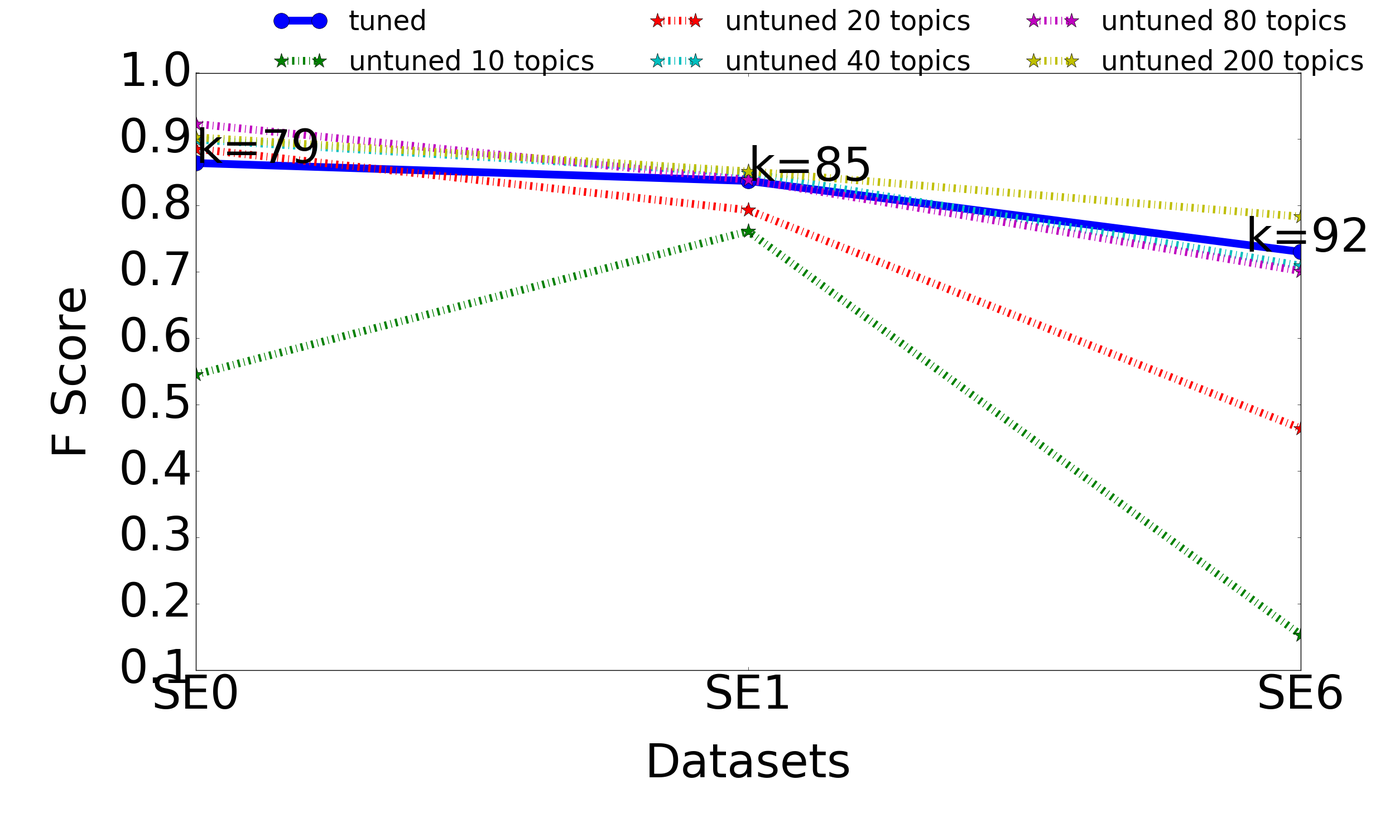
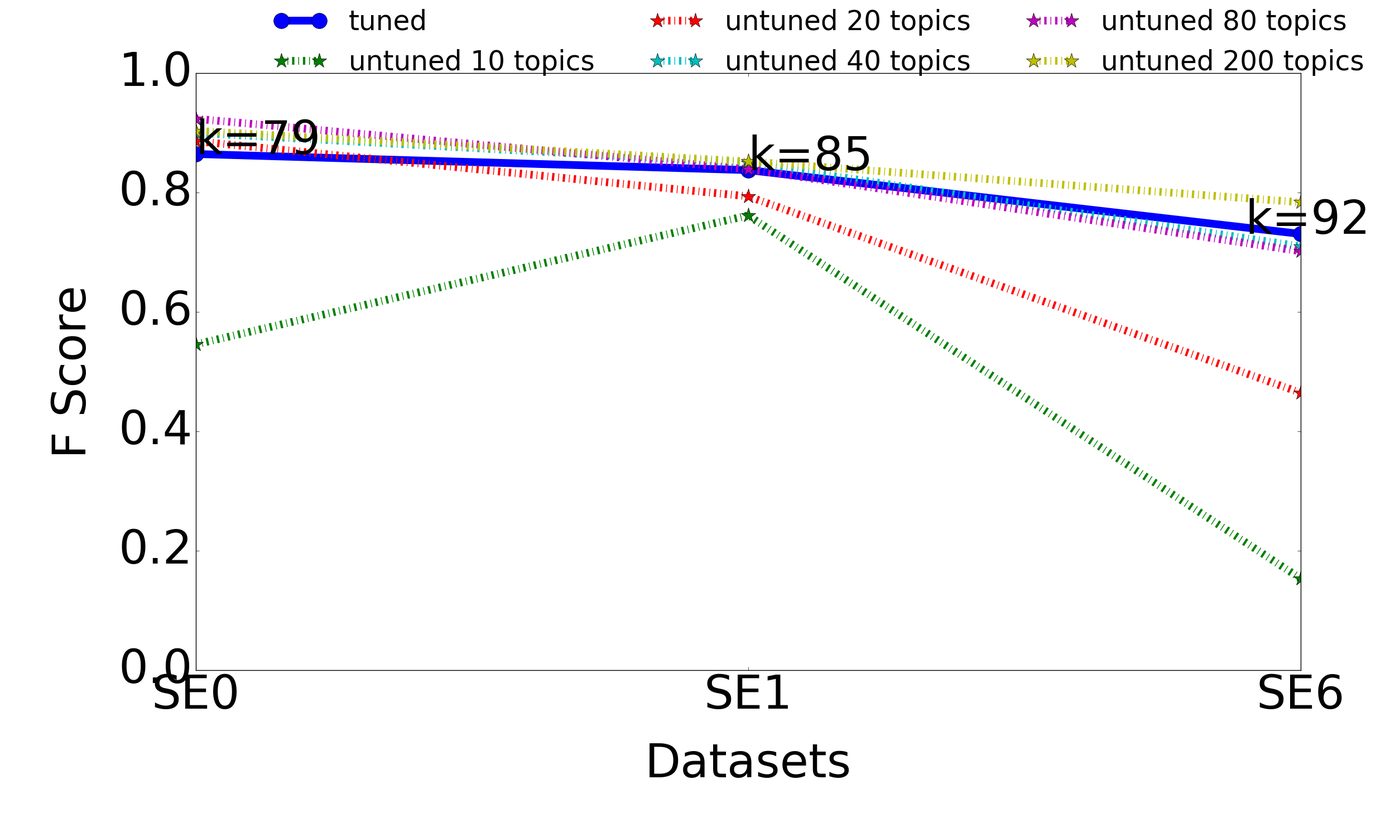
save

diff --git a/src/2016-09-05/draw.py b/src/2016-09-05/draw.py
@@ -15,7 +15,7 @@ import matplotlib.colors as colors
 
 if __name__ == '__main__':
 
-    fileB = ['SE0' ,'SE1','SE6']
+    fileB = ['SE0' ,'SE6']
     '''F_final1={}
     current_dic1={}
     para_dict1={}
@@ -35,36 +35,31 @@ if __name__ == '__main__':
                 #time1 = dict(time1.items() + time.items())
     print(F_final1)'''
     topics=[10,20,40,80,200]
-    topics_tuned = {'SE6': [0.72972972972972971, 0.64516129032258063, 0.74884437596301989, 0.71988388969521033, 0.72834067547723946,
-                0.73235294117647054, 0.63262764632627633, 0.61032863849765251, 0.75384615384615383, 0.73590504451038585,
-                0.74809160305343514, 0.76470588235294124, 0.66491458607095921, 0.65703022339027595, 0.73025335320417284,
-                0.57297297297297312, 0.73076923076923084, 0.69262865090403336, 0.73529411764705888, 0.7332339791356185,
-                0.63546798029556639, 0.75308641975308643, 0.73076923076923084, 0.73798449612403105,
-                0.61737089201877937],'SE8': [0.075053995680345556, 0.075400054244643341, 0.086403215003348965, 0.076533483398987051,
-                0.091476091476091481, 0.091994382022471899, 0.087356321839080459, 0.068565910188314816,
-                0.086819754639823846, 0.060174832282984349, 0.07518796992481204, 0.072437708707937323,
-                0.068600252206809584, 0.093640810621942697, 0.086130462317922735, 0.065991044072590141,
-                0.09253945480631276, 0.069773115393998525, 0.087860496311200548, 0.080344332855093251,
-                0.080962158990906419, 0.088070982582977325, 0.075555555555555556, 0.095614665708123645,
-                0.064473970812459161],'SE3': [0.28073339344755033, 0.27932618683001531, 0.25964517037454238, 0.20441397043068354, 0.24214559386973181,
-                0.24915121441629667, 0.21047937569676697, 0.22713864306784659, 0.2780487804878049, 0.27744270205066346,
-                0.22196638268478008, 0.23403217942467092, 0.26239907727797002, 0.25255239118753359, 0.2532485485208737,
-                0.24524863316844572, 0.20922140060896041, 0.28114630467571639, 0.27066356228172295, 0.23884514435695539,
-                0.29409846755787417, 0.23057644110275685, 0.24443293630243398, 0.22089825847846012,
-                0.22730664013926882],'SE1': [0.83763277693474947, 0.82963520120346002, 0.82383419689119175, 0.8297470743676858, 0.8394408764639214,
-                0.84459717449408167, 0.82070240295748609, 0.82261640798226165, 0.84452975047984646, 0.83929931454683926,
-                0.83027351067815658, 0.84118541033434646, 0.80738595220854459, 0.83851402577710388, 0.83720930232558144,
-                0.80916030534351147, 0.84907120743034048, 0.82781954887218046, 0.83434190620272319, 0.84024114544084394,
-                0.83712121212121215, 0.84502698535080956, 0.82348596750369274, 0.84461538461538455,
-                0.82418812989921608],'SE0': [0.87346938775510208, 0.86652977412731003, 0.76338514680483582, 0.76842105263157889, 0.77217391304347827,
-                0.86938775510204069, 0.87221095334685594, 0.86409736308316432, 0.78928571428571437, 0.74036850921273045,
-                0.86868686868686884, 0.87346938775510197, 0.78014184397163122, 0.76223776223776218, 0.88391038696537683,
-                0.87755102040816335, 0.77385159010600724, 0.77680140597539538, 0.76573426573426573, 0.8688524590163933,
-                0.68404907975460127, 0.87603305785123964, 0.74581939799331098, 0.87242798353909468,
-                0.86761710794297353]}
-
-    topics_untuned={'SE6': {40: [0.6820566631689402, 0.70549450549450543, 0.67432150313152406, 0.73721759809750309, 0.7302325581395348, 0.69555796316359686, 0.70281995661605201, 0.69621621621621621, 0.68220338983050854, 0.76052948255114317, 0.72389791183294661, 0.71266968325791857, 0.70472008781558726, 0.70021881838074396, 0.68067226890756305, 0.71829405162738491, 0.64822134387351782, 0.71557562076749437, 0.71140939597315422, 0.71927846674182627, 0.70939226519337018, 0.71493212669683248, 0.72789896670493692, 0.67785939139559281, 0.7235023041474653], 80: [0.68640350877192979, 0.72055427251732118, 0.69222343921139096, 0.73278879813302211, 0.69680264608599785, 0.71662763466042156, 0.71331828442437928, 0.7121387283236994, 0.67785234899328861, 0.69706840390879476, 0.68729281767955797, 0.68722466960352424, 0.7406513872135102, 0.72517321016166281, 0.70132743362831862, 0.71526195899772216, 0.7057471264367815, 0.6860215053763441, 0.70191226096737902, 0.70996640537514, 0.69273743016759781, 0.69230769230769218, 0.69956140350877194, 0.67089947089947077, 0.71493212669683248], 10: [0.14631522323830018, 0.20015396458814474, 0.15320796460176989, 0.15145736856442388, 0.20491803278688525, 0.14994425863991082, 0.14587332053742802, 0.13637341363734135, 0.21167576648467032, 0.15484219045049905, 0.15697346132128739, 0.20963968179691159, 0.15342615342615343, 0.16020821283979178, 0.15039649986327591, 0.14745529573590097, 0.15066630405221651, 0.16492949110974864, 0.15243243243243246, 0.14830508474576271, 0.15172786177105835, 0.2077125328659071, 0.1586851799376594, 0.20342771982116242, 0.14935949850095392], 20: [0.49352890422778262, 0.45054151624548738, 0.46042120551924481, 0.45207439198855509, 0.46412213740458019, 0.42010309278350516, 0.41585445094217022, 0.48675496688741715, 0.48784440842787685, 0.47887323943661969, 0.46334310850439875, 0.42289562289562288, 0.45199409158050219, 0.48513302034428796, 0.49238578680203049, 0.43258042436687194, 0.44922164566345441, 0.49306122448979595, 0.48995983935742965, 0.46431254695717505, 0.45434938892882815, 0.4756756756756757, 0.4846029173419773, 0.46539027982326953, 0.46785437645236255], 200: [0.79276773296244796, 0.77656675749318804, 0.78295605858854855, 0.74634146341463414, 0.77154582763337887, 0.783448275862069, 0.78335724533715934, 0.78869448183041724, 0.8032128514056226, 0.76227390180878551, 0.76000000000000001, 0.7857142857142857, 0.78639455782312928, 0.78779069767441867, 0.75634517766497467, 0.77823129251700685, 0.78877005347593576, 0.78087649402390447, 0.77835051546391754, 0.78821879382889193, 0.74250000000000005, 0.78848920863309346, 0.77353689567430017, 0.80218281036834926, 0.79551820728291323]}, 'SE8': {40: [0.1583949313621964, 0.1659988551803091, 0.18598559266535691, 0.18181818181818185, 0.18904109589041099, 0.19665271966527195, 0.15153035624686403, 0.18656229615133724, 0.19021364576154376, 0.14984709480122327, 0.18950238582140425, 0.14878542510121459, 0.1812538795779019, 0.15803814713896458, 0.17974683544303796, 0.13209219858156027, 0.1819322459222083, 0.16066481994459839, 0.15832875206157229, 0.2391713747645951, 0.17696969696969694, 0.16410256410256407, 0.17794486215538846, 0.18320610687022904, 0.17729204614450514], 80: [0.14917127071823202, 0.13107445385644226, 0.15524079320113315, 0.15666094911377931, 0.12626931567328917, 0.11769480519480519, 0.14293221229637412, 0.14764397905759161, 0.1628588166373755, 0.13457076566125289, 0.14670184696569921, 0.1359773371104816, 0.16806722689075629, 0.11812627291242363, 0.13434247871333962, 0.16775728732897083, 0.12489451476793248, 0.1242603550295858, 0.17424727738629084, 0.13169114163903364, 0.13580246913580249, 0.14421052631578948, 0.12859712230215828, 0.14278429372768994, 0.14570230607966458], 10: [0.09903121636167922, 0.076078221269756233, 0.07297367735209799, 0.067651262505955212, 0.068424803991446889, 0.079190751445086707, 0.054779206260480717, 0.077368421052631572, 0.098721590909090912, 0.097544338335607092, 0.060501296456352625, 0.09293193717277487, 0.10235026535253981, 0.089680589680589673, 0.10087719298245613, 0.094545454545454544, 0.090346534653465344, 0.098715348208248815, 0.10235934664246824, 0.080215504340017965, 0.091900826446280989, 0.094164456233421748, 0.050203527815468107, 0.095759233926128604, 0.097375690607734808], 20: [0.11910013233348039, 0.092686002522068101, 0.12303422756706753, 0.080521689821377931, 0.115736885928393, 0.11878574571051474, 0.1115506329113924, 0.086820737039350407, 0.10261854210898796, 0.11229508196721313, 0.11471321695760597, 0.077783995523223293, 0.11340659340659341, 0.11729706757331065, 0.10454217736121124, 0.1154964686331533, 0.095036958817317857, 0.1047197640117994, 0.12363636363636363, 0.11003487020534677, 0.10440835266821345, 0.10779816513761467, 0.11566858080393766, 0.071481390189795421, 0.12197309417040361], 200: [0.16203703703703706, 0.14285714285714285, 0.17368762151652622, 0.15393073117097306, 0.17379117028731608, 0.14601542416452443, 0.1534025374855825, 0.16626213592233011, 0.16965944272445818, 0.17127799736495392, 0.16118047673098754, 0.1806981519507187, 0.15138121546961325, 0.1492063492063492, 0.16187050359712229, 0.22731439046746105, 0.16397366846199882, 0.16579710144927534, 0.17510259917920654, 0.14411612234318297, 0.1488569909622541, 0.16431924882629109, 0.16688741721854305, 0.17731421121251631, 0.15341229554427521]}, 'SE3': {40: [0.26710275279367679, 0.29519379844961235, 0.29449345908122909, 0.36909527622097682, 0.2535649468498834, 0.31049041896719715, 0.3002832861189802, 0.31761112996267393, 0.25742574257425743, 0.30059617194854094, 0.27452085682074406, 0.32551817872918792, 0.24841571609632443, 0.33738384560400286, 0.33170391061452509, 0.28689492325855964, 0.33568406205923834, 0.25622022233986236, 0.30695596681557119, 0.31603459747172324, 0.24855925833124526, 0.29663608562691129, 0.30520304568527917, 0.36202920830130669, 0.27908326080649842], 80: [0.38968253968253963, 0.42549450549450546, 0.4570886676149834, 0.48800408371618181, 0.50454302512025651, 0.48678861788617883, 0.44454843238184377, 0.47548291233283801, 0.43154630039875935, 0.42992338891392523, 0.4572769953051643, 0.46444121915820025, 0.49282786885245905, 0.39583333333333331, 0.50131095962244354, 0.48740359897172231, 0.42001710863986319, 0.50562399571505079, 0.4613180515759312, 0.39065646395489328, 0.47409579667644186, 0.40064882400648827, 0.45895343254920784, 0.46531791907514447, 0.44788732394366193], 10: [0.13289219740832645, 0.13648217907852797, 0.16769856713249603, 0.12251071338542978, 0.17375499818247911, 0.12345679012345678, 0.1750317086428701, 0.16957153231663033, 0.15136320902538392, 0.17396041401852189, 0.12728468113083496, 0.12154420921544209, 0.19707565162110616, 0.18286592393392243, 0.12080536912751678, 0.13456352022711143, 0.19020753576465846, 0.12971382722653116, 0.13098912897597642, 0.15903775476110923, 0.14060216311020168, 0.12000998003992015, 0.13893805309734511, 0.18467583497053042, 0.14306741242272591], 20: [0.28824427480916032, 0.24770173646578139, 0.24452191235059764, 0.30504148053605612, 0.25507246376811593, 0.23122482823975363, 0.25328862522568996, 0.3061291379875451, 0.25873015873015875, 0.24099999999999999, 0.24601366742596814, 0.21911111111111112, 0.27462014631401238, 0.31679129843643777, 0.2591380250954719, 0.24070021881838072, 0.28537170263788963, 0.25051440329218111, 0.2280130293159609, 0.29320024953212726, 0.26951931091969988, 0.25976825653462676, 0.27370812038614423, 0.27393310265282583, 0.25444096133751309], 200: [0.46631119728550652, 0.48654139156932447, 0.52613827993254636, 0.51707317073170733, 0.49947643979057588, 0.46005774783445624, 0.5034519383961763, 0.45739046701974012, 0.52159650082012021, 0.51769911504424782, 0.49766233766233764, 0.50236966824644547, 0.50556438791732905, 0.50638297872340432, 0.55477031802120136, 0.53137365743357823, 0.51282051282051277, 0.45330830595964333, 0.55772646536412074, 0.48093543467208949, 0.48275862068965519, 0.46358876725368864, 0.55319148936170215, 0.530093870789619, 0.44434180138568136]}, 'SE1': {40: [0.83875794986906105, 0.844106463878327, 0.86416861826697899, 0.83599851245816281, 0.85013415101571488, 0.83958020989505244, 0.86411149825783973, 0.85059228123805874, 0.82648908620051798, 0.86213592233009695, 0.86013173188686554, 0.82062454611474211, 0.84084084084084076, 0.87932421560740137, 0.84869169510807718, 0.84012066365007532, 0.85009487666034156, 0.84885496183206099, 0.86564825695260472, 0.83960843373493976, 0.84318181818181814, 0.84940907357987039, 0.84551620195930666, 0.85593220338983056, 0.86370716510903423], 80: [0.84056857472147528, 0.7985714285714286, 0.84937888198757749, 0.84302546560243263, 0.84371417653802072, 0.83993902439024393, 0.82195845697329384, 0.83403281190385348, 0.84726000777302757, 0.82832777159807203, 0.84482094724682322, 0.83870967741935487, 0.82725241995532395, 0.83579825559347742, 0.83547169811320754, 0.849441663457836, 0.83978739559605153, 0.85103072734344609, 0.84724894190073097, 0.8252427184466018, 0.85147744945567649, 0.83756152972358955, 0.8295412159641925, 0.83472327520849121, 0.8308157099697886], 10: [0.7677044132740336, 0.74499507712504098, 0.75775978407557354, 0.75871313672922258, 0.75717662951705511, 0.74366567949983542, 0.76241973639743155, 0.7487553932957185, 0.77178423236514526, 0.77033985581874365, 0.7612244897959185, 0.76322930800542732, 0.73018928456849552, 0.77316735822959892, 0.76190476190476186, 0.77493074792243777, 0.74424720578566739, 0.76494565217391308, 0.75275275275275277, 0.73974401050213334, 0.79472558802565929, 0.73026103770544637, 0.77129120879120883, 0.7284427284427285, 0.7694938440492477], 20: [0.78556412053258584, 0.775425199583478, 0.82983508245877058, 0.78704681450193592, 0.79036827195467418, 0.80874316939890711, 0.79294532627865955, 0.80404186214363049, 0.77839335180055402, 0.81429624170965353, 0.79913451135953839, 0.78751753155680215, 0.79784560143626571, 0.80759401241328943, 0.76416694944010866, 0.82620022329735754, 0.79194630872483229, 0.78700105969622036, 0.80215053763440858, 0.7931648273406906, 0.78538812785388146, 0.80739934711643091, 0.79123984457788765, 0.80085959885386815, 0.81942899517982937], 200: [0.8548895899053629, 0.84153846153846146, 0.84206471494607082, 0.860759493670886, 0.85296442687747043, 0.84523350057892699, 0.85579196217494091, 0.85154719937328638, 0.846839860411012, 0.84729835552075183, 0.86473429951690817, 0.84081319524357501, 0.84841453982985315, 0.85217391304347834, 0.84701348747591521, 0.85916601101494894, 0.85714285714285721, 0.84410058027079304, 0.85635359116022103, 0.8475232198142415, 0.85522151898734178, 0.84109272797229706, 0.83944954128440363, 0.86112216474333458, 0.85930047694753575]}, 'SE0': {40: [0.89142857142857146, 0.90466531440162268, 0.88073394495412838, 0.89230769230769225, 0.90766208251473479, 0.89788053949903668, 0.90196078431372551, 0.90909090909090906, 0.89980353634577603, 0.89393939393939392, 0.89940828402366857, 0.87615526802218113, 0.88931297709923651, 0.90204081632653066, 0.90448343079922022, 0.87476635514018686, 0.91242362525458243, 0.89443378119001915, 0.89961389961389959, 0.89312977099236646, 0.89883268482490275, 0.91015625, 0.90058479532163749, 0.90476190476190477, 0.88636363636363624], 80: [0.92024539877300615, 0.92050209205020916, 0.93333333333333335, 0.9243353783231083, 0.91944990176817298, 0.92338709677419351, 0.91599999999999993, 0.9218106995884775, 0.9218106995884775, 0.92842535787321068, 0.93762575452716301, 0.92215568862275454, 0.9173553719008265, 0.92622950819672134, 0.92307692307692313, 0.92916666666666659, 0.91097308488612827, 0.93041749502982107, 0.92148760330578516, 0.92929292929292928, 0.91732283464566933, 0.92525252525252522, 0.93167701863354035, 0.92813141683778233, 0.91322314049586784], 10: [0.54152445961319684, 0.57402597402597411, 0.53917050691244239, 0.5512367491166078, 0.52048726467331119, 0.52727272727272723, 0.56029232643118143, 0.55882352941176472, 0.54441913439635536, 0.54524089306698009, 0.55339805825242716, 0.52631578947368418, 0.55421686746987953, 0.54651162790697672, 0.54524089306698009, 0.5423728813559322, 0.54375729288214703, 0.52559726962457343, 0.55555555555555558, 0.54396248534583824, 0.56000000000000005, 0.5245535714285714, 0.55474452554744524, 0.54800936768149877, 0.54004576659038894], 20: [0.84135472370766495, 0.85607476635514013, 0.90180360721442887, 0.90135396518375244, 0.87850467289719625, 0.8529945553539019, 0.91338582677165348, 0.83571428571428563, 0.88345864661654139, 0.89105058365758749, 0.84999999999999998, 0.85662431941923778, 0.90272373540856032, 0.89959839357429716, 0.89575289575289574, 0.89615384615384619, 0.88555347091932468, 0.88122605363984674, 0.89534883720930236, 0.88380952380952371, 0.89305816135084426, 0.87020109689213898, 0.89243027888446214, 0.89628180039138938, 0.87360594795539026], 200: [0.89277899343544864, 0.92372881355932202, 0.90280777537796975, 0.9098712446351932, 0.90831556503198285, 0.90638297872340423, 0.89699570815450647, 0.90196078431372551, 0.90752688172042995, 0.89565217391304353, 0.90712742980561567, 0.90086206896551724, 0.89427312775330403, 0.9243697478991596, 0.89277899343544864, 0.90517241379310343, 0.91452991452991439, 0.88198757763975155, 0.88986784140969166, 0.89177489177489178, 0.91341991341991347, 0.88986784140969166, 0.92177589852008457, 0.90598290598290598, 0.89655172413793105]}}
-    topic=[79, 85, 92]
+    #topics
+    #topic=[79, 85, 92]
+    # words
+    topic = [79, 61]
+    words_tuned = {
+        'SE6': [0.46834345186470078, 0.46572934973637958, 0.46275197195442597, 0.4773735581188997, 0.47845206684256814,
+                0.46099912357581069, 0.46596858638743455, 0.48141592920353982, 0.46666666666666673, 0.4776119402985074,
+                0.48263888888888884, 0.46789797713280568, 0.46678635547576303, 0.46986899563318779, 0.46515679442508706,
+                0.47028423772609829, 0.47419072615923014, 0.46354166666666663, 0.47729296527159393, 0.46732318710832582,
+                0.48105726872246701, 0.46495119787045258, 0.46437994722955134, 0.47326906222611748,
+                0.46885813148788924],
+        'SE8': [0.054567502021018593, 0.072573839662447265, 0.07243572021011889, 0.073374096720400225,
+                0.073492286115007022, 0.04949421965317919, 0.072576177285318552, 0.074136478517270427,
+                0.073280721533258181, 0.07239057239057238, 0.055250863294738981, 0.073991655076495119,
+                0.073378839590443695, 0.072747313309451639, 0.071428571428571438, 0.055938386704499389,
+                0.048673376029277217, 0.07178631051752922, 0.073280721533258181, 0.072077028885832187,
+                0.070973107845855282, 0.073537604456824515, 0.048540145985401455, 0.055969398026978055,
+                0.07277856135401975],
+        'SE0': [0.41618497109826591, 0.87398373983739841, 0.90322580645161299, 0.41919686581782561, 0.90364025695931482,
+                0.42084942084942079, 0.42189054726368158, 0.41658440276406711, 0.42885375494071148, 0.42292490118577075,
+                0.90638297872340423, 0.91331923890063438, 0.41494591937069808, 0.41425818882466281, 0.41650294695481338,
+                0.41325536062378165, 0.9098712446351932, 0.42430278884462153, 0.41722488038277505, 0.8693877551020408,
+                0.42125984251968496, 0.42084562438544737, 0.42207163601161657, 0.42084562438544737,
+                0.90128755364806856]}
+    words_untuned={'SE6': {40: [0.42146341463414638, 0.46803377563329313, 0.51094890510948898, 0.24522845575477153, 0.41487279843444225, 0.50368188512518408, 0.41739130434782606, 0.50305250305250304, 0.41385948026948993, 0.48837209302325585, 0.41910331384015598, 0.42465753424657532, 0.42348411934552455, 0.49557522123893805, 0.49493487698986971, 0.48862275449101805, 0.48484848484848481, 0.49275362318840582, 0.48134777376654642, 0.50147492625368728, 0.48721071863581, 0.47058823529411764, 0.5, 0.42607003891050582, 0.47449584816132856], 80: [0.67787114845938368, 0.51891891891891895, 0.51592356687898089, 0.48695652173913045, 0.66946778711484589, 0.54421768707482998, 0.63684210526315788, 0.66019417475728148, 0.66104078762306606, 0.50448654037886342, 0.55981416957026708, 0.60280373831775702, 0.65909090909090906, 0.62015503875968991, 0.6732117812061712, 0.55693348365276207, 0.45367965367965374, 0.66760168302945311, 0.53679653679653683, 0.65811965811965811, 0.66855524079320117, 0.61712846347607053, 0.60869565217391308, 0.59079903147699764, 0.6629526462395543], 10: [0.41151685393258425, 0.39861591695501725, 0.40938166311300639, 0.40531097134870725, 0.39555863983344902, 0.41058655221745355, 0.40609840609840603, 0.1874414245548266, 0.40248104755341141, 0.39268121041520054, 0.40845070422535207, 0.3977746870653685, 0.40446304044630405, 0.40055826936496863, 0.19840510366826156, 0.40082930200414646, 0.41014799154334042, 0.41226818830242506, 0.39525139664804465, 0.40193370165745862, 0.40278745644599295, 0.40793201133144469, 0.40281690140845067, 0.40305767894371092, 0.40360610263522884], 20: [0.39292997960571041, 0.55601659751037347, 0.54777070063694266, 0.56076759061833692, 0.5547290116896918, 0.54621848739495804, 0.562962962962963, 0.55381400208986409, 0.55260361317747075, 0.39071038251366119, 0.54008438818565396, 0.39972714870395637, 0.55310199789695069, 0.3986577181208053, 0.55165069222577212, 0.55378061767838127, 0.39694656488549618, 0.54240837696335076, 0.39331103678929769, 0.55485232067510548, 0.39434724091520867, 0.55685441020191284, 0.55179704016913322, 0.55252100840336138, 0.55378061767838127], 200: [0.42392260334212833, 0.47835497835497837, 0.45245245245245247, 0.42745098039215684, 0.46558704453441296, 0.47473560517038776, 0.47034764826175868, 0.44379844961240317, 0.46123650637880281, 0.43371212121212122, 0.50454545454545452, 0.42379182156133832, 0.48979591836734693, 0.48504273504273504, 0.46243902439024392, 0.38839645447219978, 0.43856332703213613, 0.54145077720207258, 0.45914396887159536, 0.43024302430243022, 0.43364485981308409, 0.48079034028540069, 0.40158102766798426, 0.51388888888888895, 0.52071005917159763]}, 'SE0': {40: [0.58386683738796419, 0.71475409836065573, 0.70287539936102228, 0.72104404567699842, 0.707395498392283, 0.71197411003236255, 0.72374798061389345, 0.71869918699186985, 0.7126805778491172, 0.69887278582930756, 0.71497584541062797, 0.71474358974358987, 0.72131147540983609, 0.70418006430868163, 0.71082390953150243, 0.72025723472668812, 0.71052631578947367, 0.71728594507269794, 0.71197411003236244, 0.70588235294117652, 0.70399999999999996, 0.71175523349436398, 0.72577996715927751, 0.7142857142857143, 0.6820276497695853], 80: [0.87526427061310774, 0.63836477987421392, 0.85772357723577231, 0.6191860465116279, 0.5643564356435643, 0.64890282131661436, 0.64263322884012541, 0.87866108786610886, 0.54712041884816753, 0.89684210526315788, 0.65414710485133021, 0.64396284829721362, 0.66055045871559626, 0.88085106382978728, 0.63452566096423013, 0.63580246913580252, 0.65015479876160986, 0.88322717622080671, 0.66459627329192539, 0.88034188034188043, 0.88841201716738194, 0.6553323029366307, 0.64939024390243905, 0.86736842105263157, 0.87846481876332616], 10: [0.54461181923522595, 0.55188679245283012, 0.55041518386714106, 0.55714285714285705, 0.54823529411764704, 0.54166666666666663, 0.55410225921522005, 0.54716981132075471, 0.55213270142180093, 0.55726092089728452, 0.55791962174940901, 0.56763285024154586, 0.53624856156501721, 0.54652532391048292, 0.54460093896713613, 0.56428571428571428, 0.5512367491166078, 0.54332552693208425, 0.55188679245283012, 0.54161781946072673, 0.55648038049940551, 0.54714784633294533, 0.54906542056074759, 0.55303933253873661, 0.54652532391048292], 20: [0.90871369294605808, 0.92339544513457561, 0.91476091476091481, 0.91958762886597933, 0.91060291060291065, 0.91322314049586772, 0.91991786447638613, 0.90947368421052632, 0.92753623188405798, 0.90683229813664601, 0.92592592592592582, 0.90871369294605808, 0.92148760330578516, 0.90794979079497906, 0.91286307053941906, 0.91511387163561075, 0.91022964509394577, 0.91991786447638613, 0.91666666666666663, 0.91511387163561064, 0.91735537190082639, 0.9064449064449065, 0.91213389121338928, 0.92148760330578516, 0.91958762886597933], 200: [0.71454880294659295, 0.63897763578274758, 0.66786355475763015, 0.54107648725212454, 0.66666666666666663, 0.74296435272045036, 0.71755725190839692, 0.65259740259740251, 0.74003795066413669, 0.48285714285714287, 0.5270092226613966, 0.73904761904761895, 0.5785714285714284, 0.7078039927404719, 0.73069679849340874, 0.72595281306715065, 0.64214046822742477, 0.68092691622103385, 0.64965986394557818, 0.70242214532871972, 0.66901408450704225, 0.68100358422939067, 0.73189823874755378, 0.60124610591900307, 0.65217391304347838]}, 'SE8': {40: [0.073570168808264044, 0.1728395061728395, 0.17505168849069608, 0.17602217602217601, 0.072518129532383097, 0.14092140921409216, 0.17688022284122562, 0.18020477815699659, 0.07134010403765173, 0.17295813315030886, 0.071375093586224111, 0.17565698478561548, 0.17391304347826086, 0.089602139752591098, 0.068560235063663072, 0.17647058823529413, 0.089356110381077533, 0.17481073640743289, 0.090695330870003366, 0.11143210895583987, 0.1797752808988764, 0.073250820914372322, 0.17567567567567569, 0.094674556213017763, 0.17088174982911825], 80: [0.13603949533735601, 0.069522643818849456, 0.11437565582371459, 0.13718018508437671, 0.089624267493967597, 0.085696282293635781, 0.13538800220143093, 0.1396103896103896, 0.089237057220708446, 0.089773877826527168, 0.10470347648261759, 0.076281287246722285, 0.10999563509384548, 0.099884748367268544, 0.073403980356681317, 0.11436170212765957, 0.088994565217391311, 0.06812767984754646, 0.10683229813664596, 0.13631406761177753, 0.13633864760857614, 0.12022367194780989, 0.071816068199431676, 0.078253473206691238, 0.13670613562970937], 10: [0.046683046683046688, 0.087442472057856685, 0.086757990867579904, 0.086759469083845908, 0.046994202014037229, 0.046610814927646606, 0.086112010359339589, 0.047051540009286484, 0.088033909357678519, 0.087520259319286864, 0.046383887702166615, 0.087782509007533566, 0.046483366246392224, 0.04742109314857583, 0.087097822554436127, 0.087919244545750563, 0.088536504790221349, 0.086167800453514742, 0.046539923954372613, 0.046611468874578343, 0.046390965969784835, 0.086703332254933665, 0.087126137841352397, 0.046703296703296704, 0.047348193697156031], 20: [0.04895920066611157, 0.076314301865460718, 0.051201671891327065, 0.072408118486012057, 0.073971078976640722, 0.073784237003912789, 0.050615357947651242, 0.050580287545470295, 0.05133577789418544, 0.050953206239168117, 0.048333333333333332, 0.050086956521739126, 0.075146117450598376, 0.074301675977653636, 0.051862164984336927, 0.05090655509065551, 0.050379572118702552, 0.051077136900625437, 0.074299972276129736, 0.051183172655565295, 0.050611120674814943, 0.049039098740888, 0.073636874648679018, 0.05074365704286965, 0.074426412982652485], 200: [0.12862414338429098, 0.15091946734305642, 0.11196388261851016, 0.18125960061443933, 0.11300448430493273, 0.087811731647348082, 0.30013280212483401, 0.12654473554127532, 0.12802582033351262, 0.14993646759847523, 0.1006036217303823, 0.11263858093126386, 0.094290976058931858, 0.30664857530529172, 0.26923076923076922, 0.14977973568281938, 0.10752688172043012, 0.1426126640045636, 0.12603305785123967, 0.20050547598989049, 0.13638904415874792, 0.1519949335022166, 0.10549070471249458, 0.38974358974358975, 0.098552991787250688]}}
 
     font = {
         'size': 60}
@@ -79,22 +74,23 @@ if __name__ == '__main__':
     #l=['F3CR7P30','F7CR3P30','F3CR7P10','F7CR3P10']
     Y_tuned = []
     for file1 in fileB:
-        Y_tuned.append(np.median(topics_tuned[file1]))
+        Y_tuned.append(np.median(words_tuned[file1]))
     plt.plot(X, Y_tuned, marker='o', markersize=20, label='tuned')
-    x=[0,1.0,1.9]
+    x=[0,0.9]
     for i in range(len(fileB)):
         plt.text(x[i], Y_tuned[i], 'k='+str(topic[i]))
     for top in topics:
         Y_untuned=[]
         for file1 in fileB:
-            Y_untuned.append(np.median(topics_untuned[file1][top]))
+            Y_untuned.append(np.median(words_untuned[file1][top]))
             #print(Y_tuned)
         plt.plot(X, Y_untuned,marker='*',linestyle="-.", markersize=20, label='untuned '+str(top)+' topics')
 
         #plt.ytext(0.04, 0.5, va='center', rotation='vertical', fontsize=11)
         #plt.text(0.04, 0.5,"Rn (Raw Score)", labelpad=100)
+    plt.ylim(0.0, 1.0)
     plt.xticks(X, fileB)
     plt.ylabel("F Score", labelpad=30)
     plt.xlabel("Datasets", labelpad=30)
     plt.legend(bbox_to_anchor=(1.07, 1.13), loc=1, ncol=3, borderaxespad=0.1)
-    plt.savefig("topics1.png")
+    plt.savefig("words1.png")
